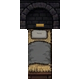
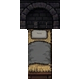
AI-25: drop the arch plaque from the kiln bunk states; bunk keepsakes queued
Claude-Session: https://claude.ai/code/session_01JD4WxtEbqoZETYrujpirxJ

Changed region(s): [[0.425, 0.275, 0.55, 0.35], [0.575, 0.275, 0.6, 0.35]]

diff --git a/games/emberwake/docs/specs/ART_UI_REQUESTS.md b/games/emberwake/docs/specs/ART_UI_REQUESTS.md
@@ -27,7 +27,7 @@ Placeholders (decision "Placeholder-first assets"): when Build lands a feature w
 | AI-22 | Final F2 HUD frame for the new `hud` frame role: `games/emberwake/assets/ui/frames/hud.png`, `24 x 24`, 9-slice margin `8`, scale `2`, sidecar `hud.json`; replace in place the placeholder (`panel.png` with its top 2 art rows recoloured `#991b1b`). Should agree with the `UX-36`, `UX-37` frame mock. | `PR7-15` (`WEBFIX2`), Build `FB-312` | `games/emberwake/assets/ui/frames/` | done (Art/UI 2026-11-18): `hud.png` 24x24 + `hud.json` (slice 8, scale 2) in the UX-37 popup border Tushar picked (option A): 1 px bronze `#74543c` outer line, 1 px dark gap, 1 px iron `#4b5563` inner line, 1 px oxblood `#991b1b` top row, panel fill. No ornate corners |
 | AI-23 | (1) A drain brick interior wall set at top level, `tilesets/drain_brick/{wall,wall_face}` in the same shape as `interior_stone` (`wall_set` takes `a-z0-9_` only, so the boundary set `sunk_ward/boundary/drain_brick` cannot be named). Once it exists a one-line seed switches basin, hearth, hall, entry and hollows to it. (2) Add the hub reference `hub_bunks8_v22.png`, which exists only on the project mount, to the repo beside the other hub references. | `PR7-23` (`HUB-LAYOUT1`) landed these rooms on `interior_stone` as the placeholder | `kits/rpg/assets/tilesets/` or `games/emberwake/assets/tilesets/` | done (Art/UI 2026-11-18): (1) `games/emberwake/assets/tilesets/drain_brick/{wall,wall_face}/v0.png` (128x96, 128x48), `interior_stone` re-tinted to the drain brick hue with its contrast kept (`art_src/style/drain_brick_walls.py`); the seed switching the rooms is Build's; (2) `art_src/region_maps/previews/hub_bunks8_v22.png` added (`1ccbd99f`) |
 | AI-24 | Hand-made 16 px status icons with simple silhouettes for every kit status (`kits/rpg/assets/statuses/`), for the battle plate tabs and foe card chips; the 64 px icons blur at 16 px (`SCREEN_CONTRACT_BATTLE.md` section 9). | `PR7-40` (`BATTLE-UI2`); until then the 64 px icons scale down | `kits/rpg/assets/statuses/` | open |
-| AI-25 | Replace in place the 33 bunk layout B placeholders (`PR7-43`, `FB-342`, all under `games/emberwake/assets/`): `props/sunk_ward/timber_bunk/v0.png` (plus state art `timber_bunk_<state>` later); `props/sunk_ward/{kiln,timber}_bunk_blanket_<class>/v0.png` for the 6 classes (12); `ui/markers/class_<class>.png` (6); `props/sunk_ward/bunk_gear_<founder>/v0.png` (6); `props/sunk_ward/bunk_keepsake_<founder>/v0.png` (6, new: the bed keepsakes, no slate tile); `props/sunk_ward/bunk_screen/v0.png`, `props/sunk_ward/bunk_floor/v0.png`. Also drop the small plaque inside the `kiln_bunk_<state>` arch (the wall plate replaces it). | `PR7-43` landed with placeholders (decision "Placeholder-first assets") | `games/emberwake/assets/props/sunk_ward/`, `ui/markers/` | open |
+| AI-25 | Replace in place the 33 bunk layout B placeholders (`PR7-43`, `FB-342`, all under `games/emberwake/assets/`): `props/sunk_ward/timber_bunk/v0.png` (plus state art `timber_bunk_<state>` later); `props/sunk_ward/{kiln,timber}_bunk_blanket_<class>/v0.png` for the 6 classes (12); `ui/markers/class_<class>.png` (6); `props/sunk_ward/bunk_gear_<founder>/v0.png` (6); `props/sunk_ward/bunk_keepsake_<founder>/v0.png` (6, new: the bed keepsakes, no slate tile); `props/sunk_ward/bunk_screen/v0.png`, `props/sunk_ward/bunk_floor/v0.png`. Also drop the small plaque inside the `kiln_bunk_<state>` arch (the wall plate replaces it). | `PR7-43` landed with placeholders (decision "Placeholder-first assets") | `games/emberwake/assets/props/sunk_ward/`, `ui/markers/` | in progress (Art/UI 2026-11-19): the arch plaque dropped from `kiln_bunk_{active,benched,crypt}` (bricks patched; `empty` had none); queued as placeholders `props_hub_founder_bunks_1` (timber bunk, gear walls, screen), `icons_class_glyphs_1`, `props_hub_bunk_keepsakes_1` (new, no slate tile); blankets get recoloured from the timber bunk once it lands; waits on the next queue run |
 
 ## Outbox (for Design)
 
